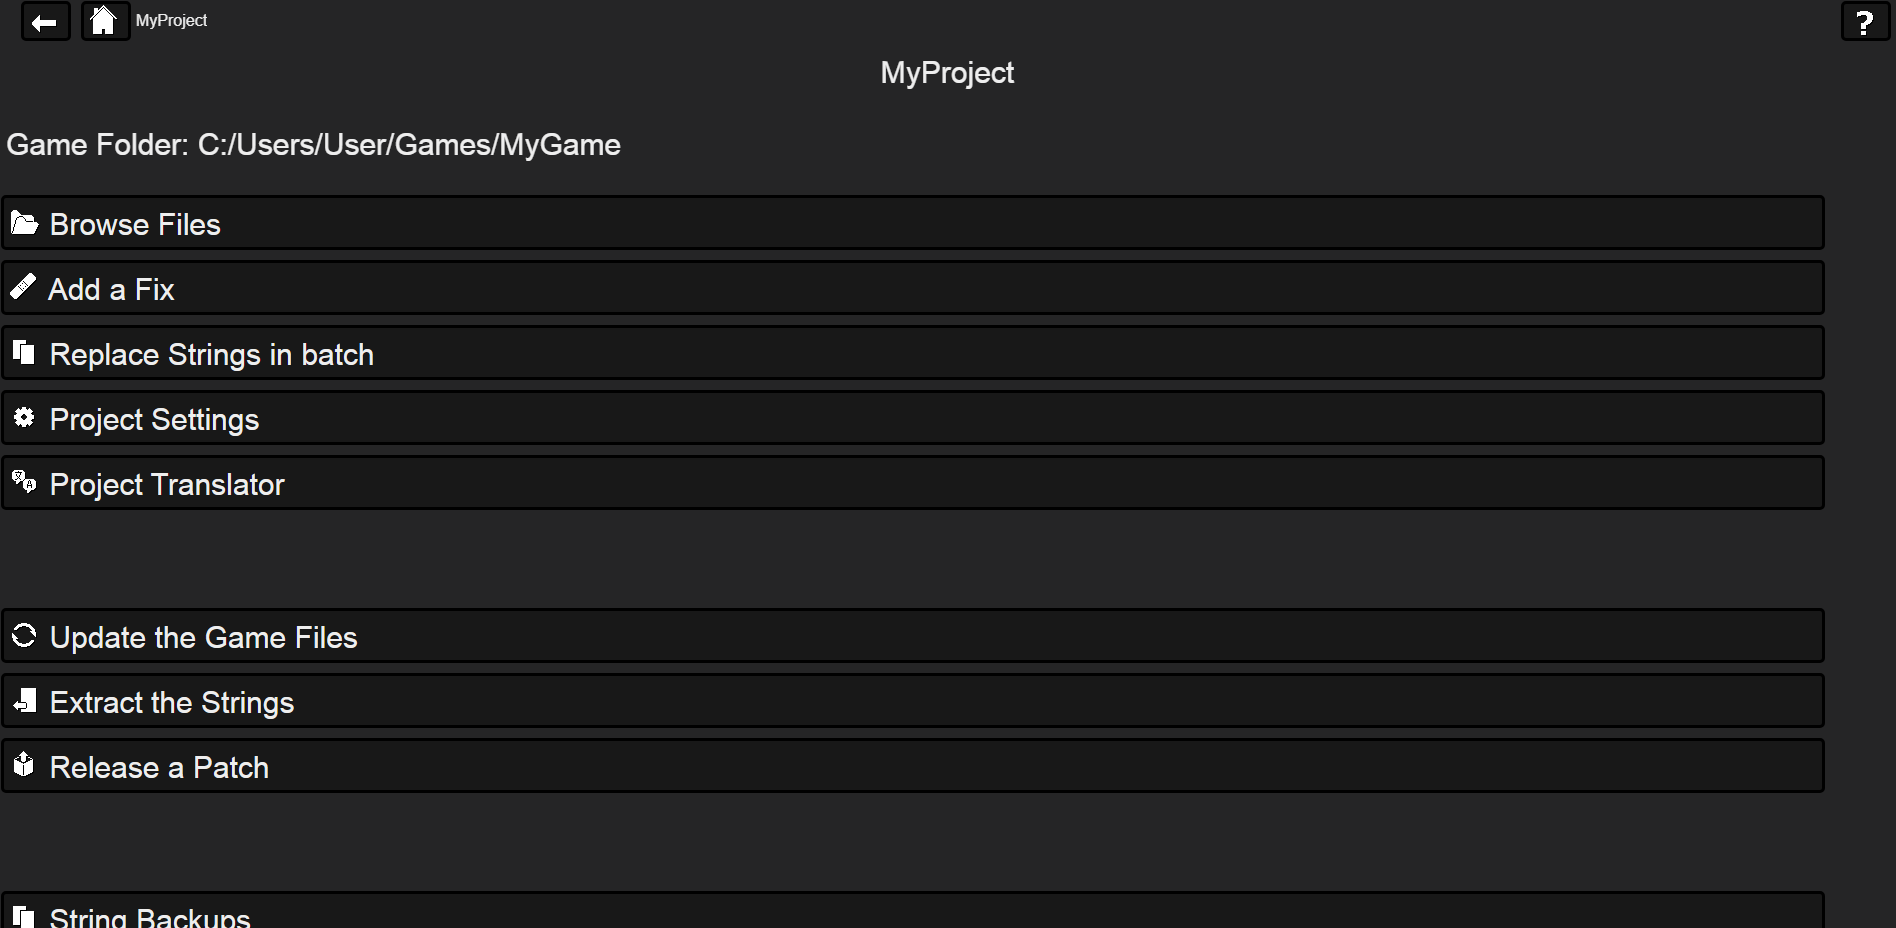
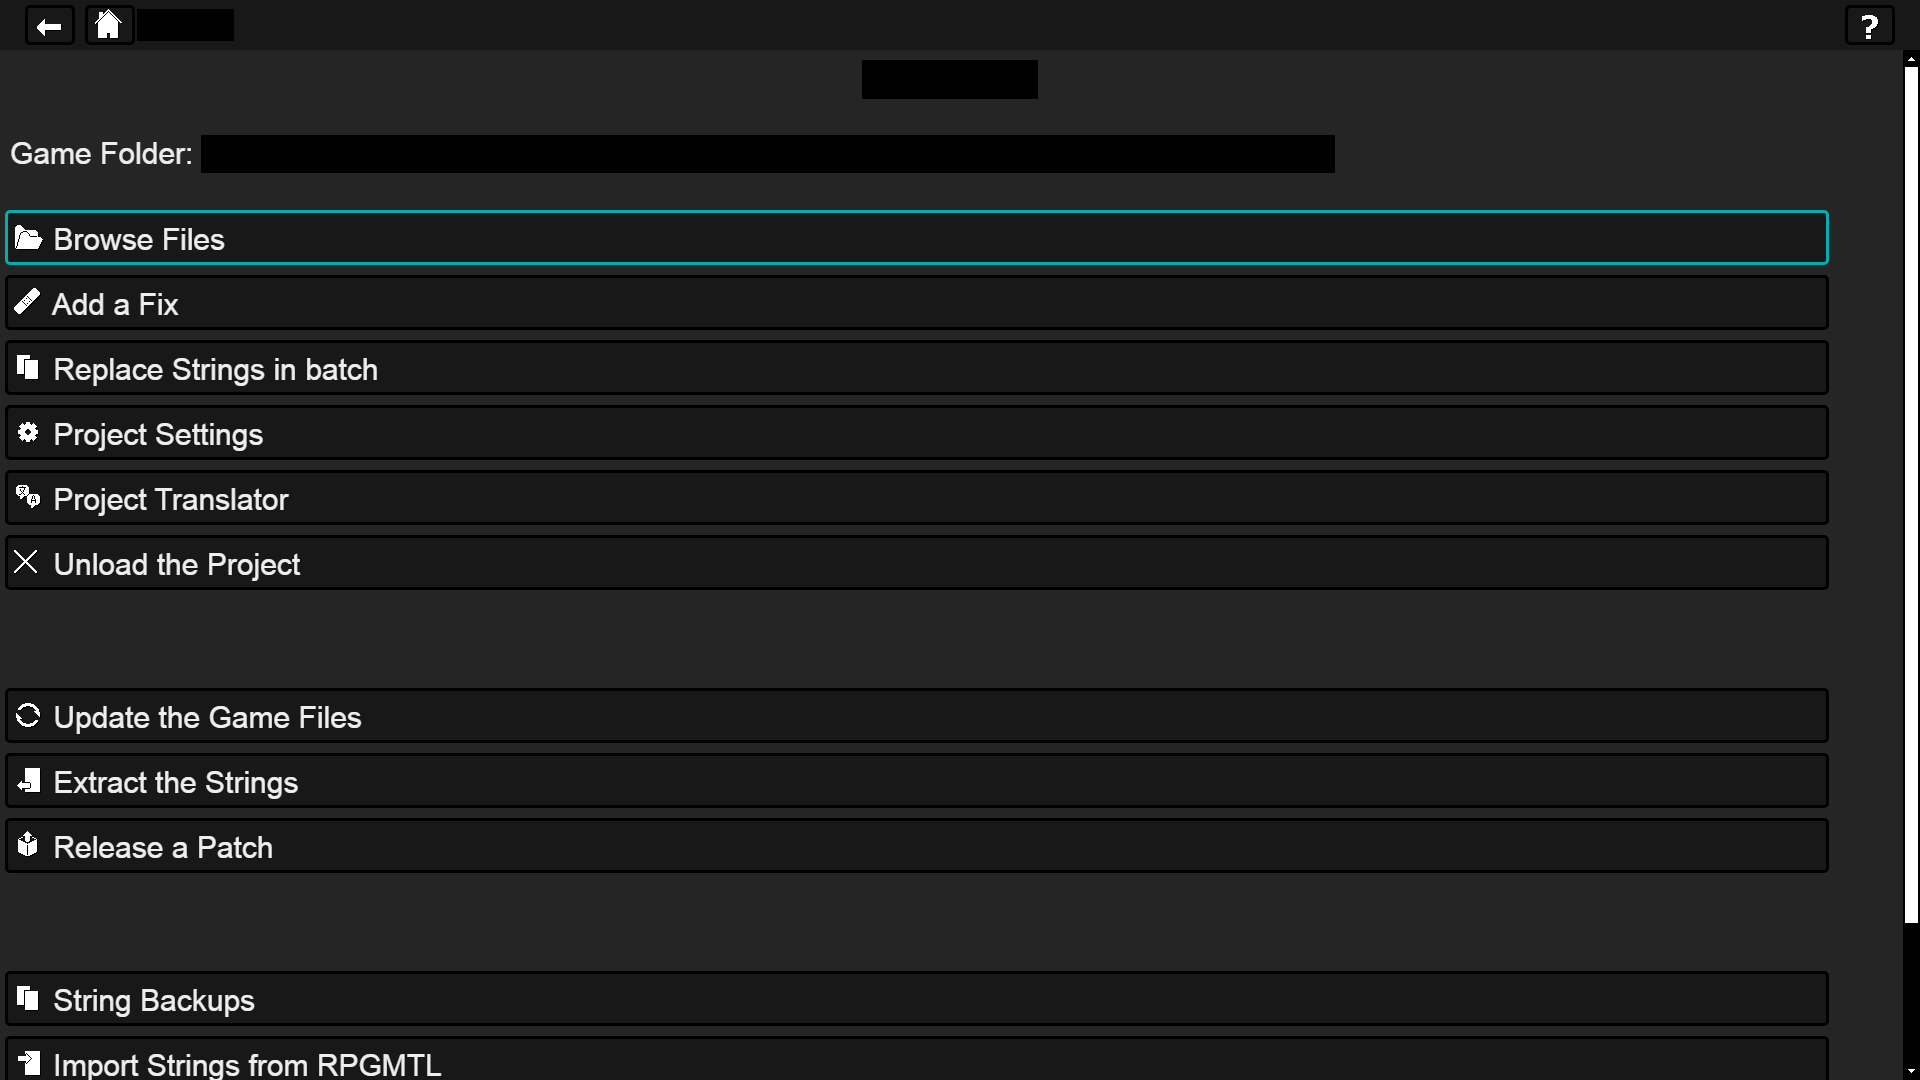
Updated screenshots

Changed region(s): [[0.0, 0.0, 1.0, 1.0], [0.4357, 0.0312, 0.5601, 0.0938], [0.0311, 0.0, 0.1245, 0.0625]]

diff --git a/todo.md b/todo.md
@@ -18,7 +18,7 @@ Future (possible) improvements or bugs are noted here:
 - [x] Grid/Flexbox CSS for project list(?).  
 - [x] Improve CSS of text setting input type.  
 - [x] Grab focus of main page upon page change.  
-- [ ] Update readme screenshots.  
+- [x] Update readme screenshots.  
   
 ### Translator
   

diff --git a/readme.md b/readme.md
@@ -19,7 +19,7 @@ Eventually planned (No ETA):
 - And more as I see fit.  
   
 ![image](https://raw.githubusercontent.com/MizaGBF/RPGMTL/main/assets/readme/1.png)  
-*All screenshots are from version 3.19.*
+*All screenshots are from version 3.25.*
   
 ## Table of contents  
   
